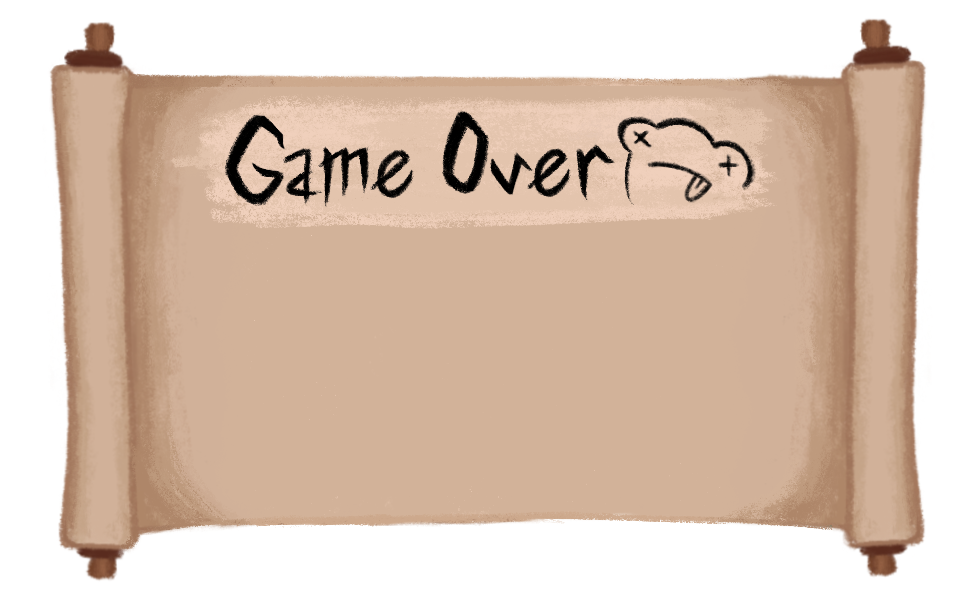
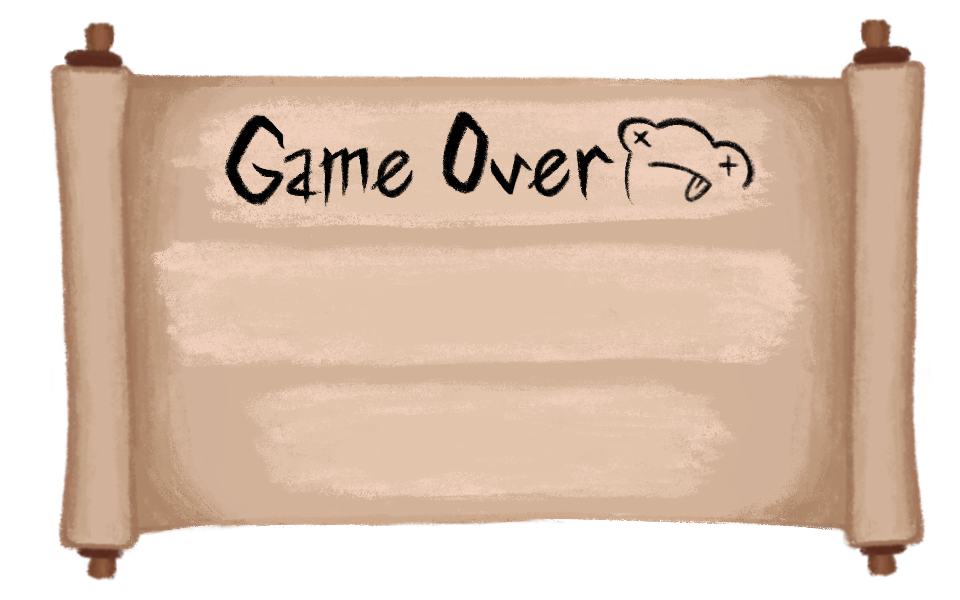
updated GameOver UI & faded hp bar when credits roll

diff --git a/src/scenes/Play.js b/src/scenes/Play.js
@@ -13,7 +13,7 @@ class Play extends Phaser.Scene {
         this.frogBounce = 0.5
         this.frogProjectileSpeed = 500
         this.blocked = false
-        this.atkDmg = 100
+        this.atkDmg = 10000000
         this.spitDmg = 100
 
         // hop points
@@ -498,7 +498,7 @@ class Play extends Phaser.Scene {
             this.spawnPurples = true
         }
 
-        if(this.timer == 180 && !this.fakeWin){
+        if(this.timer == 5 && !this.fakeWin){
             this.ratSpawnTimer.remove()
             this.dFlySpawnTimer.remove()
             this.gameTimer.remove()
@@ -1316,8 +1316,20 @@ class Play extends Phaser.Scene {
     }
 
     credits(){
-        //credits stuff
-        let devCreditsText = 'Developed by Alex Beteta & Franchesca Boongaling          Special Thanks to Nathan Altice, Nate Laffan, Ruby Hirsch, Ishan Gupta, and Jennie Le            Thank You for Playing!'
+        // fade health bar UI
+        this.tweens.addCounter({
+            from: 1,
+            to: 0,
+            duration: 2000,
+            onUpdate: tween =>
+                {
+                const val = tween.getValue()
+                this.castleHpBar.setAlpha(val) 
+                }
+            }
+        )
+        // credit text
+        let devCreditsText = 'Developed by Alex Beteta & Franchesca Boongaling          Special Thanks to Nathan Altice, Nate Laffan, Ruby Hirsch, Ishan Gupta, and Jennie Le          Thank You for Playing!'
         let devCredits = this.add.bitmapText(1100, centerY, 'wTH', devCreditsText).setScale(1.25).setDepth(4).setOrigin(0, 0.5)
         this.physics.add.existing(devCredits)
         devCredits.body.setVelocityX(-150)
@@ -1354,17 +1366,14 @@ class Play extends Phaser.Scene {
         })
 
         this.time.delayedCall(225, () => {
-            //this.whiteOut.setTintFill(0xffffff)
             this.whiteOut.setAlpha(0)
         })
 
         this.time.delayedCall(300, () => {
-            //this.whiteOut.setTintFill(0xffffff)
             this.whiteOut.setAlpha(1)
         })
 
         this.time.delayedCall(500, () => {
-            //this.whiteOut.setTintFill(0xffffff)
             this.rainLoop = this.sound.add('rainloop', {volume: 0.25})
             this.rainLoop.loop = true
             this.rainLoop.play()
